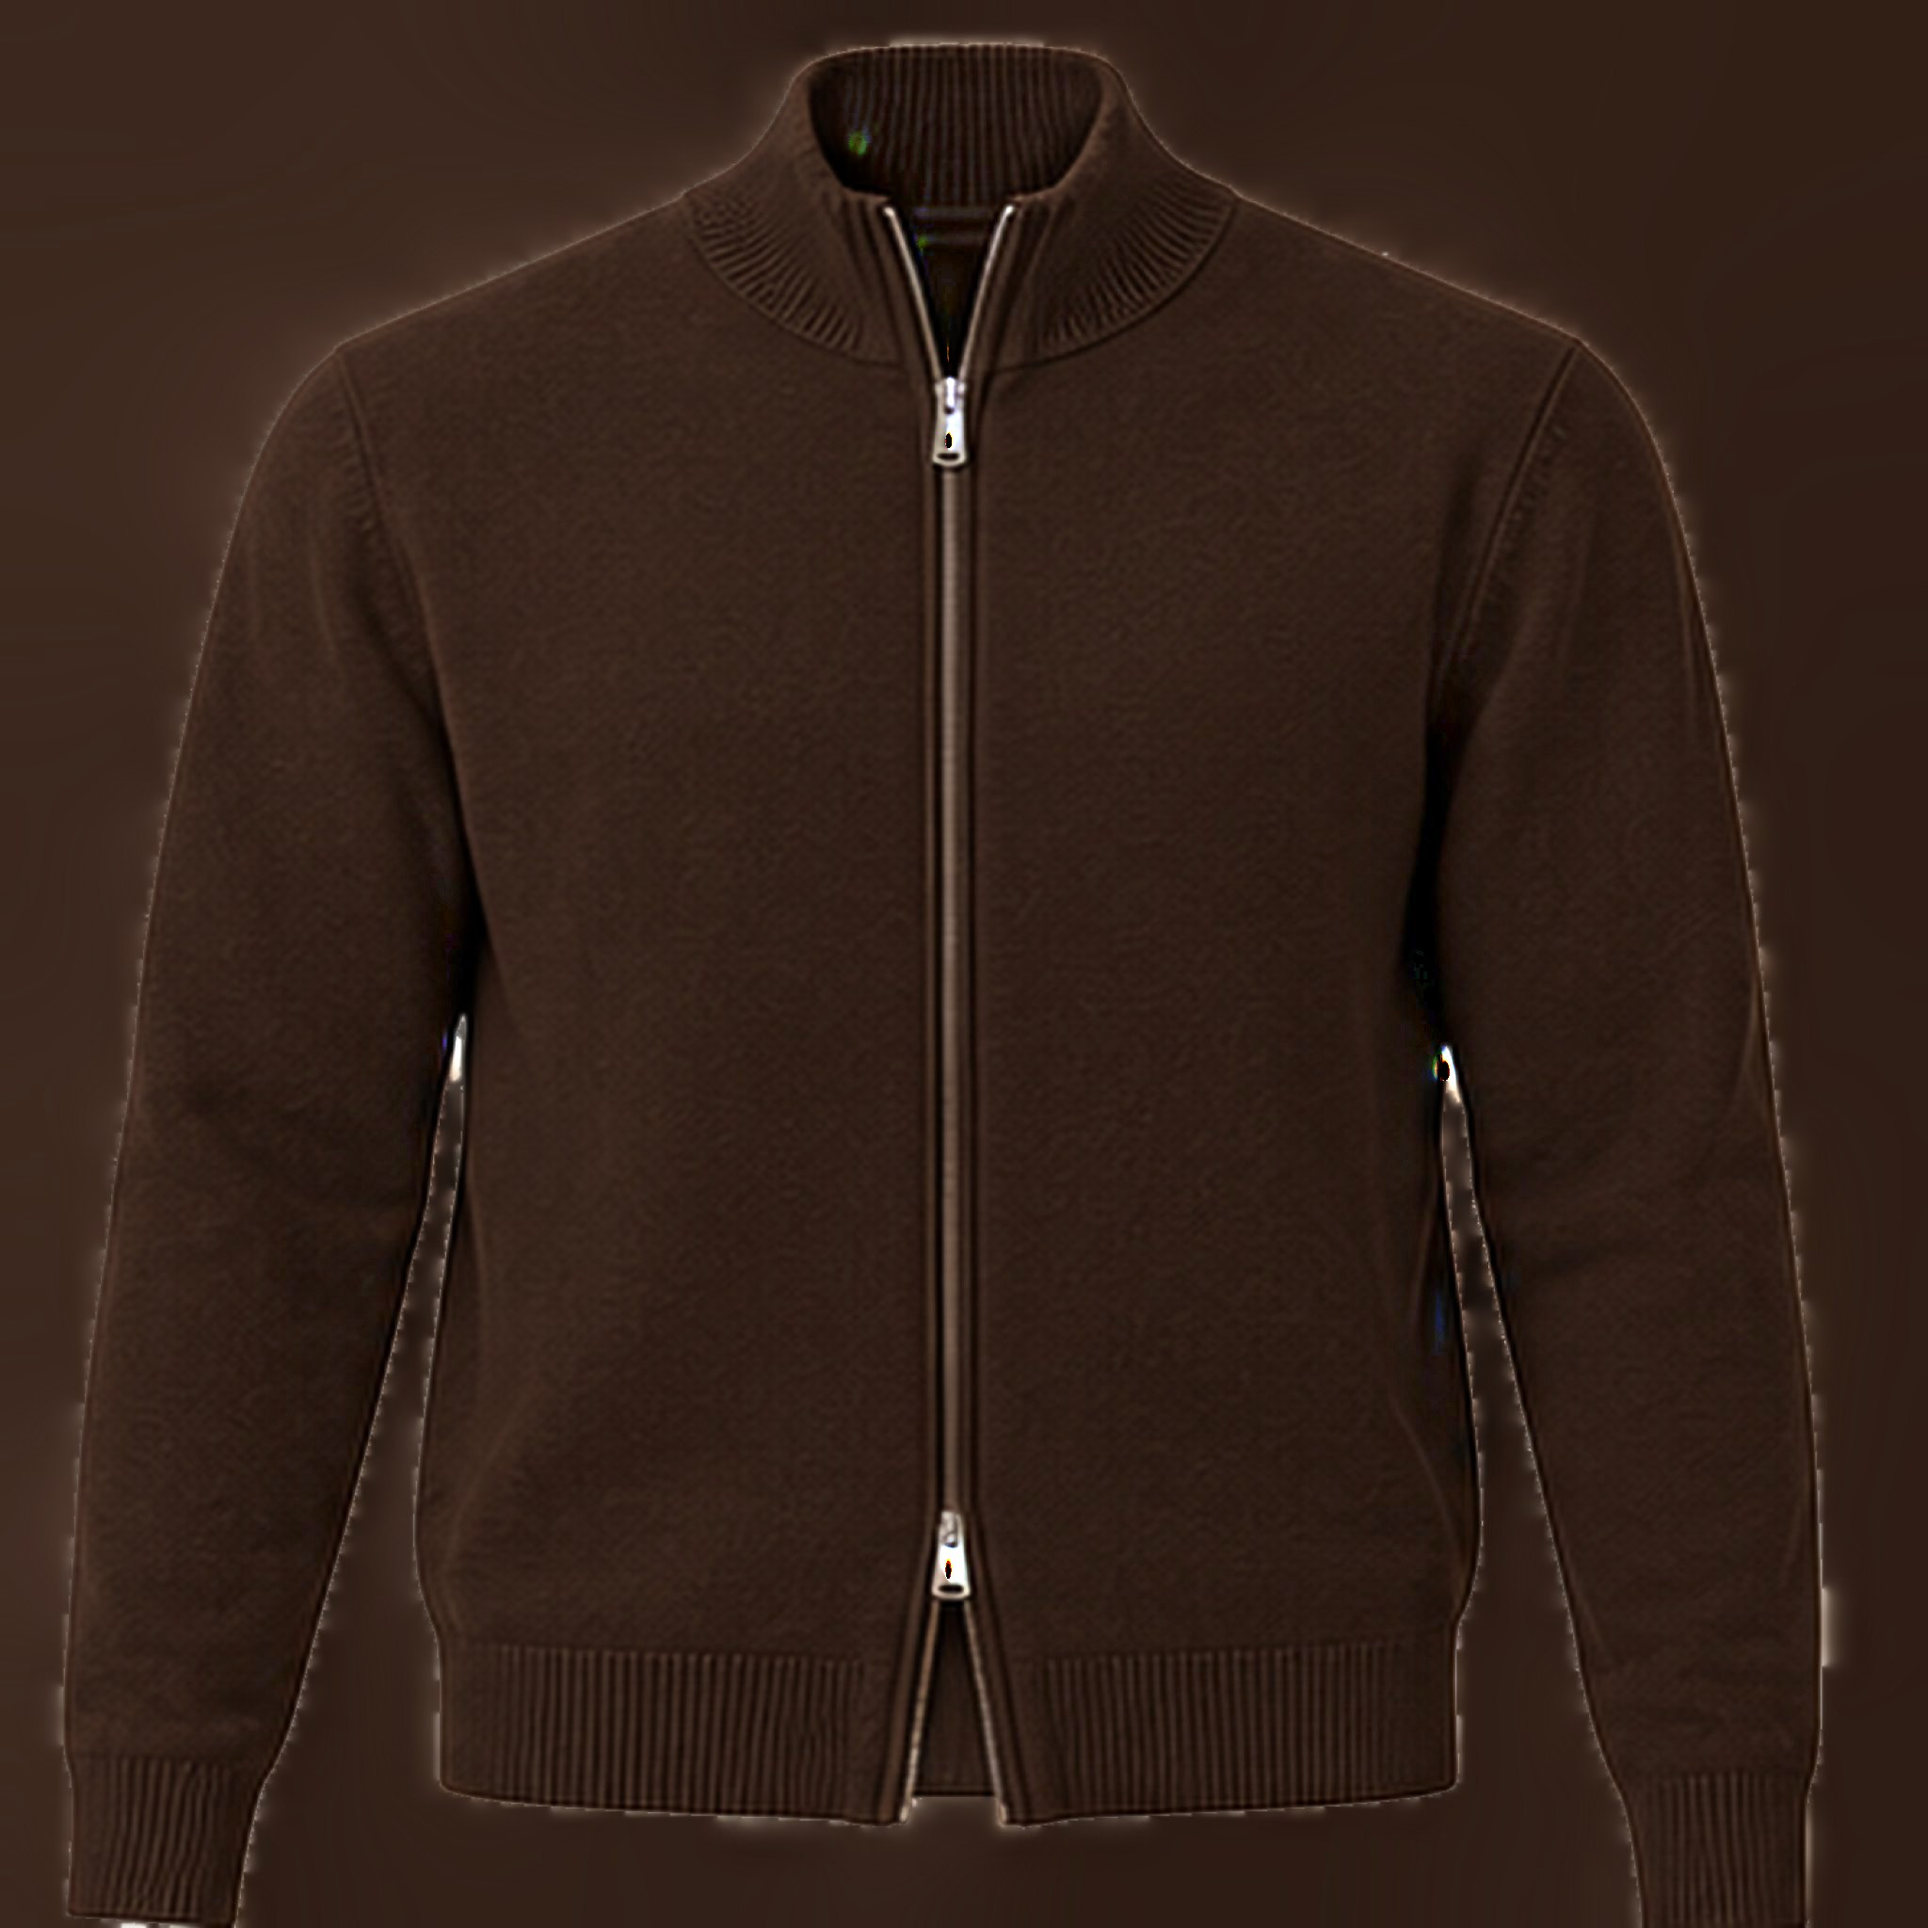
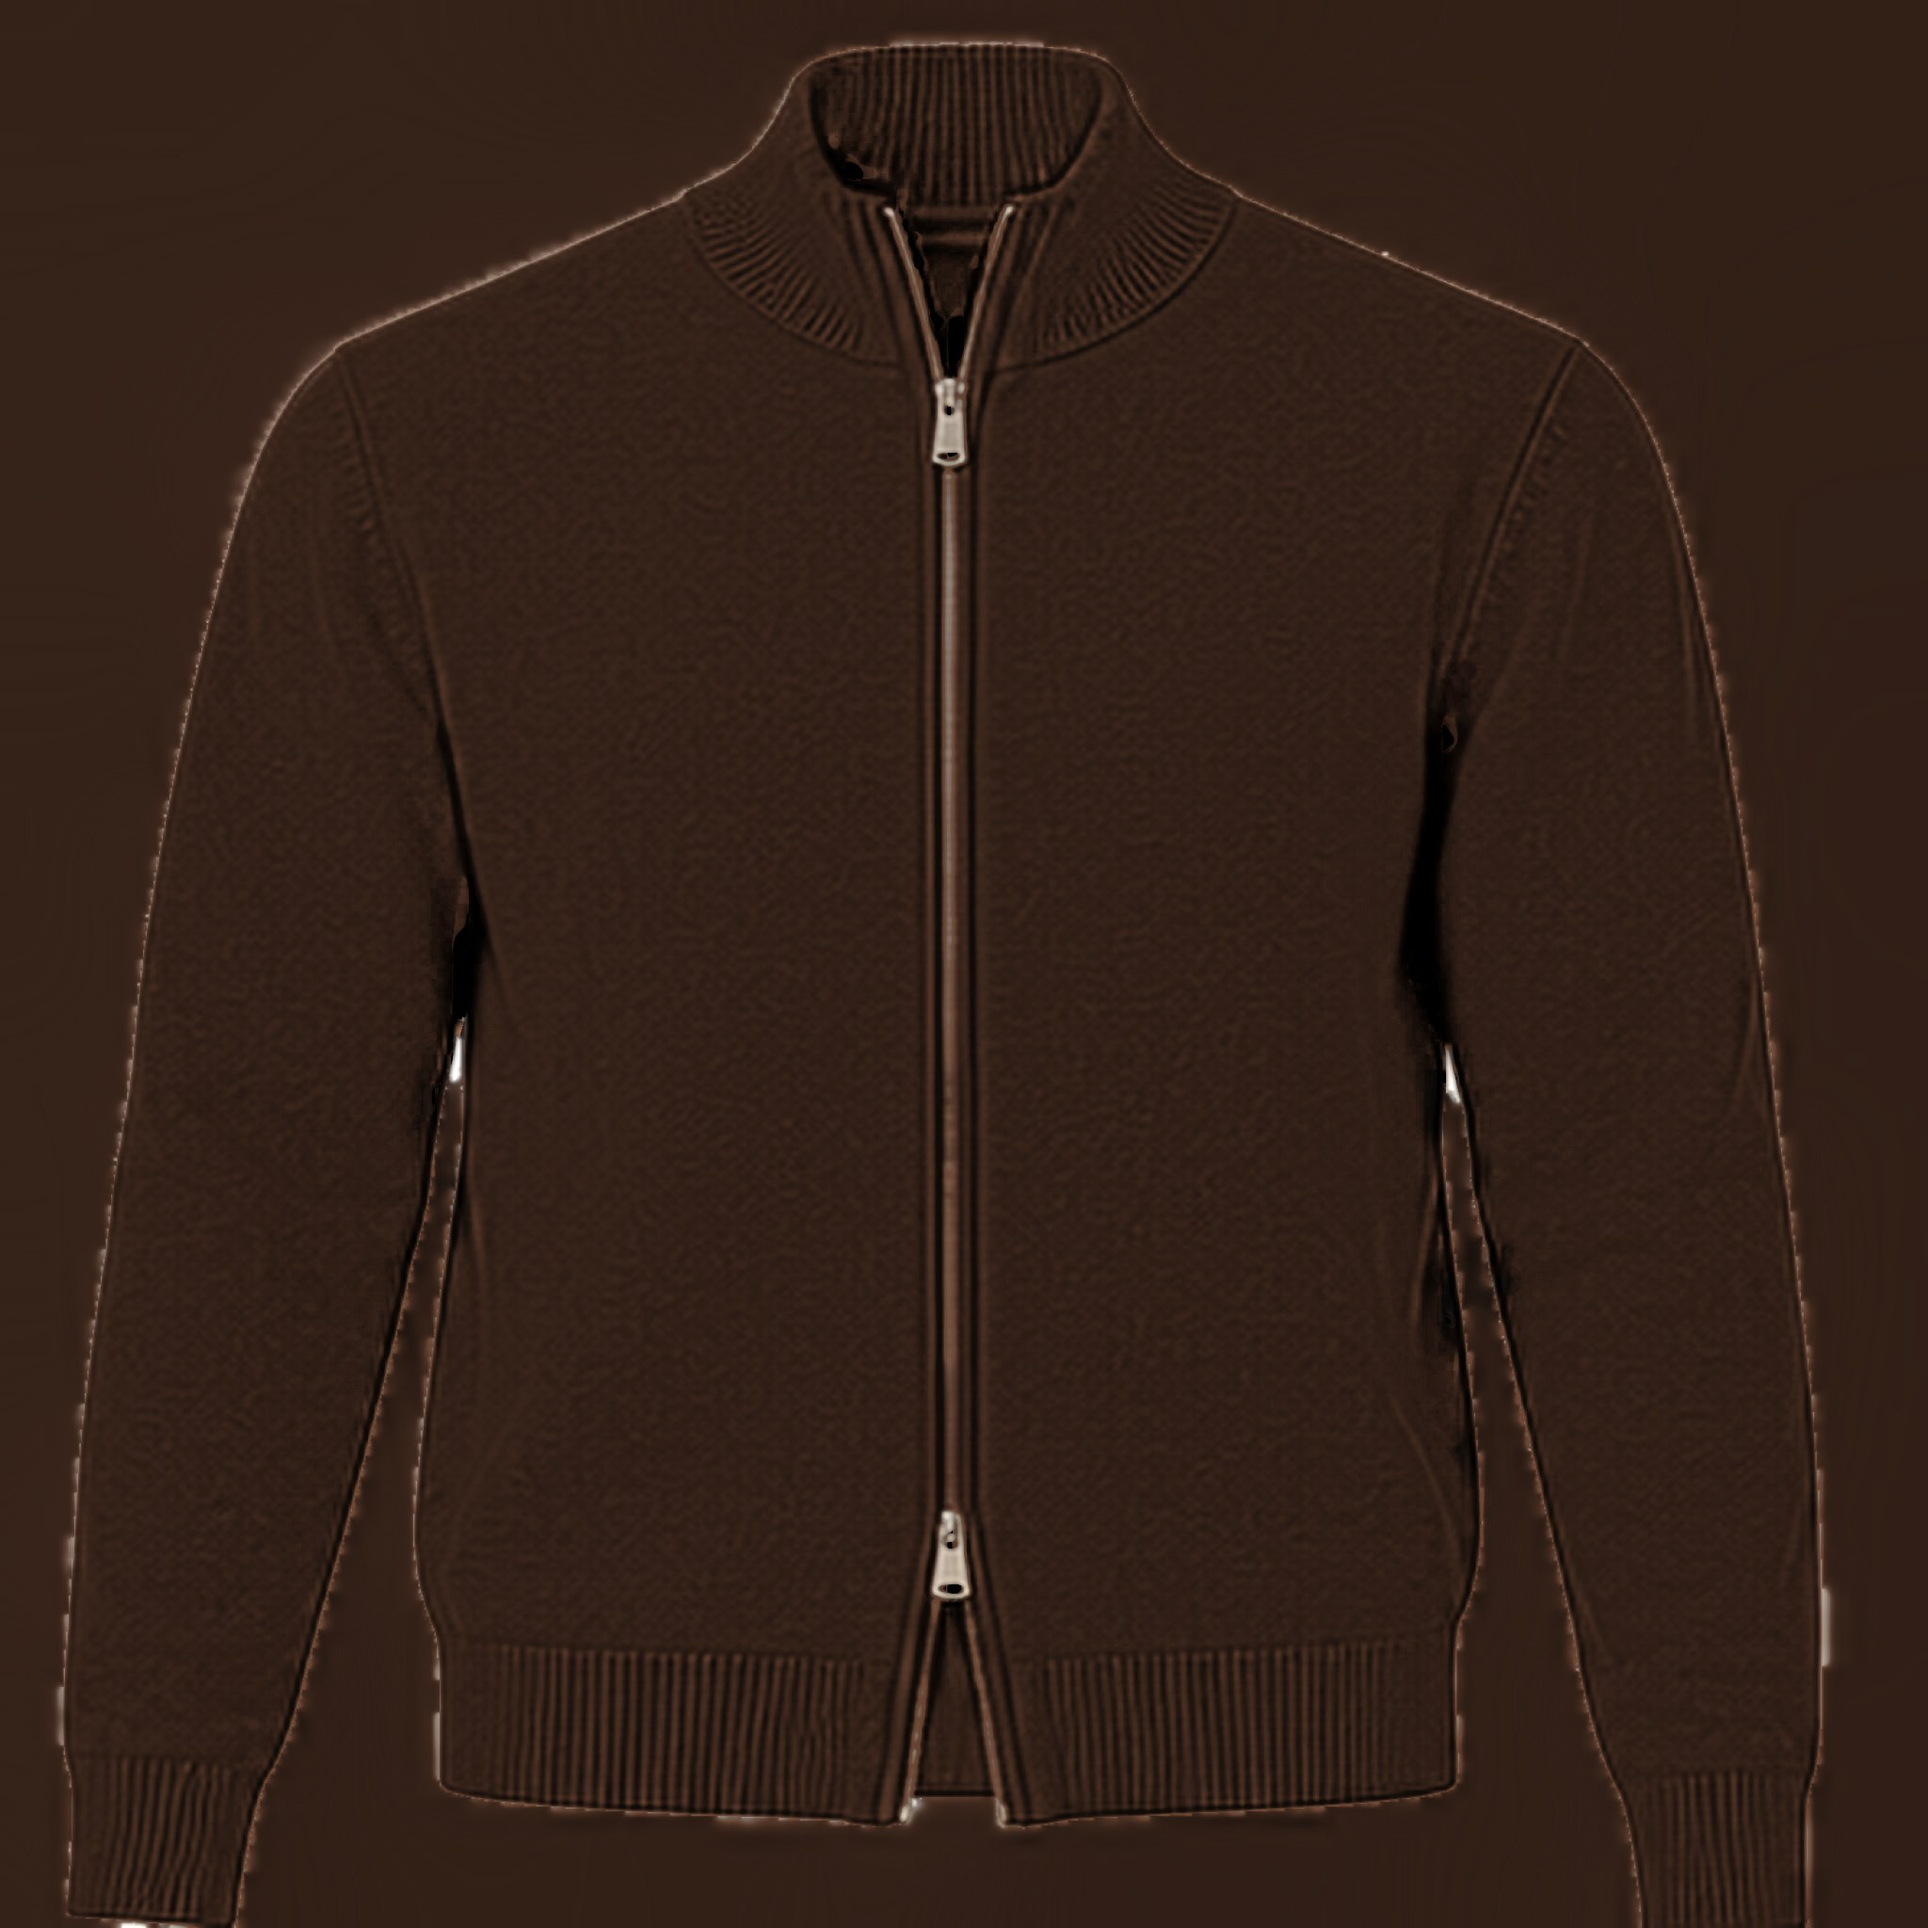
Cardigan 3D : teinte chocolat unique, taches lissées, éclairage régulier
Claude-Session: https://claude.ai/code/session_01KVDNtNdXrkWVPdbVR9W3PF

diff --git a/js/v360.js b/js/v360.js
@@ -29,7 +29,8 @@
     ' float k=mix(kf,ks,ws/(wf+wb+ws+1e-4));',
     // pas de maille jersey sur le zip ni sur les bord-côtes, déjà visibles dans les photos
     ' float a=(texture2D(tA,uvF).r*wf+texture2D(tA,uvB).g*wb+texture2D(tA,uvS).b*ws)/(wf+wb+ws+1e-4);',
-    ' gl_FragColor=vec4(c*(1.+uK.y*a*(k-.5)*2.),1.);',
+    ' float l=.80+.30*max(dot(n,normalize(vec3(-.35,.45,.85))),0.)+.06*max(dot(n,normalize(vec3(.6,.2,-.6))),0.);',
+    ' gl_FragColor=vec4(c*l*(1.+uK.y*a*(k-.5)*2.),1.);',
     '}'
   ].join('');
 
